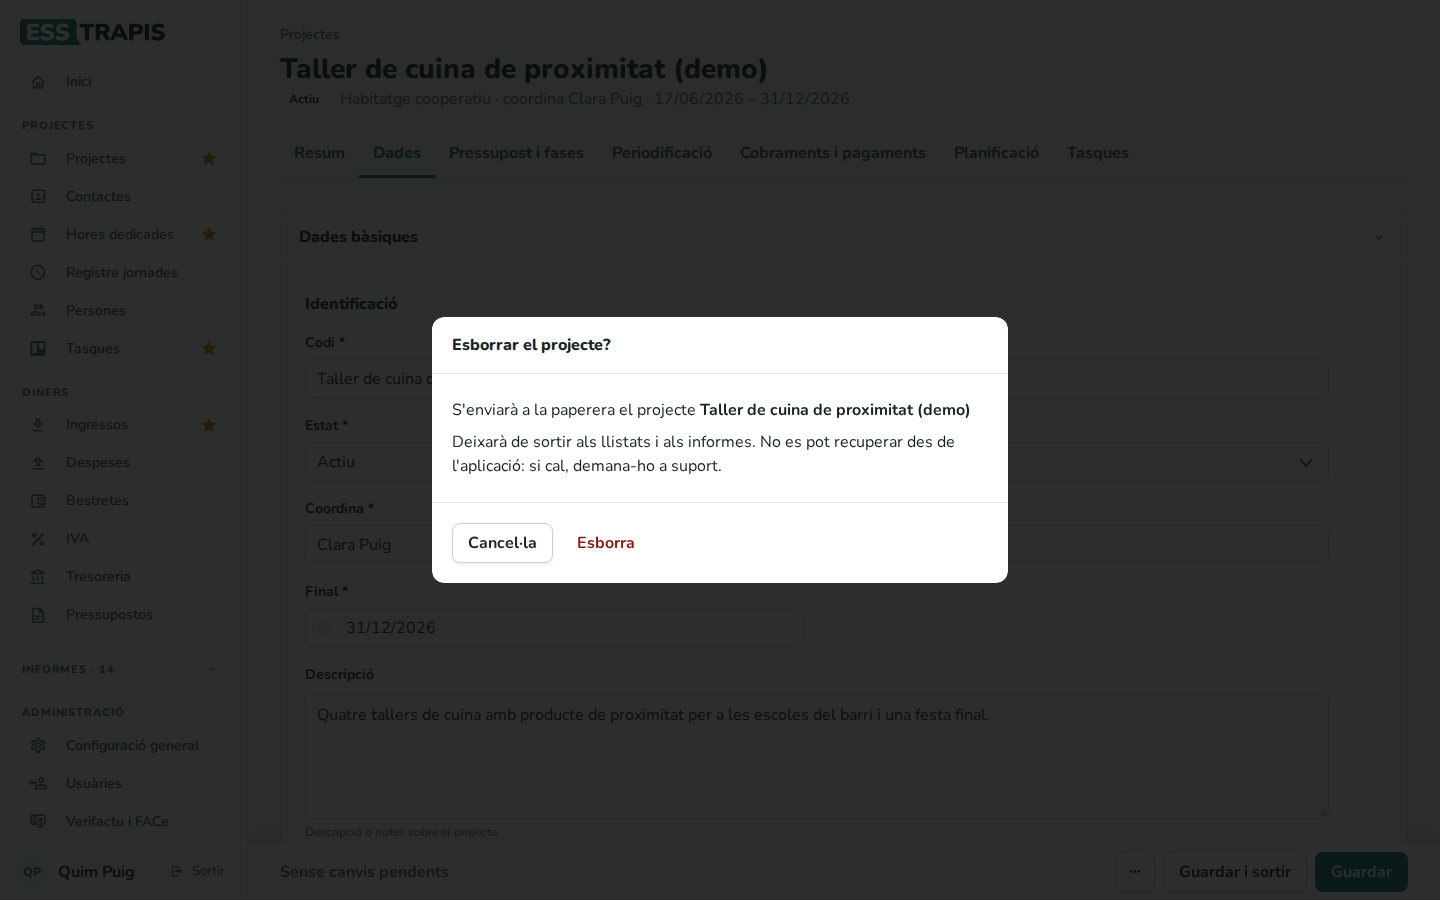
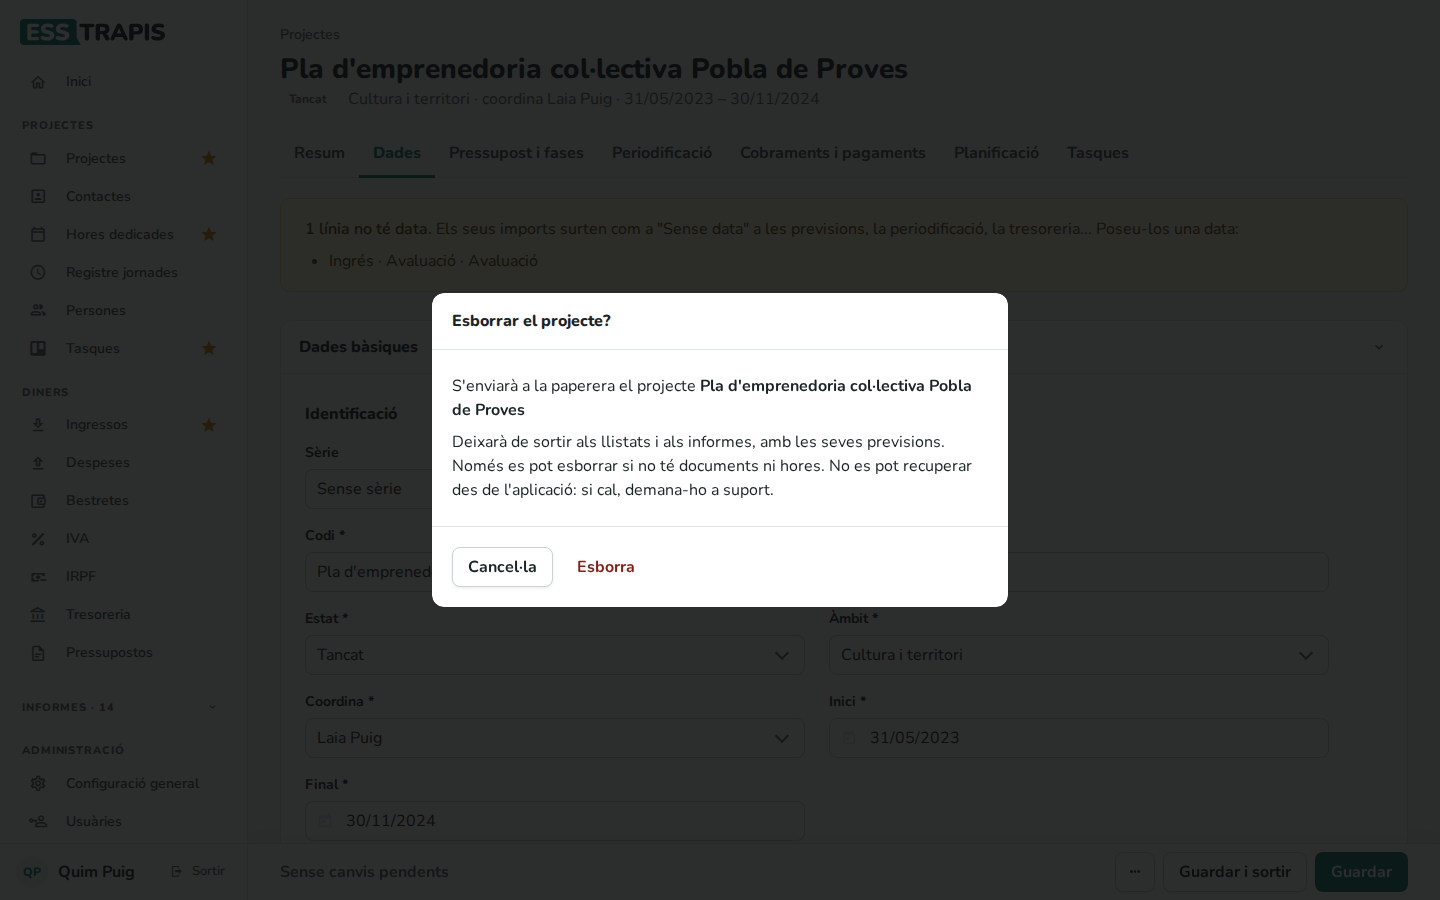
Manual: project series, the copy into a series, and which projects can be deleted
Chapter 04 explains the Sèrie field and the numbered name, the series in
«Duplicar projecte», and that a deleted project leaves every list, report
and forecast but can't be deleted with documents or hours. Chapter 35
describes «Sèries de projecte»; 03, 36 and the glossary point to them.
Screenshots from an anonymized copy (capture script 04-series-projecte).

diff --git a/manual/TOPICS.md b/manual/TOPICS.md
@@ -20,7 +20,7 @@ Dades per a les captures: **resilience** i **arrandeterra** (projectes, fases, h
 | # | Tema | Contingut | Pantalles | Permís | Estat |
 |---|------|-----------|-----------|--------|-------|
 | 03 | Llistat de projectes | Cercar, filtrar per estat/coordinació/àmbit, columnes, ordenar, totals, edició ràpida, exportar. | `/projectes` | projects | done (2026-10-17) |
-| 04 | Crear i editar un projecte | Assistent de 4 passos (dades, fases, planificació, tancar pressupost), pestanyes, barra de desar, duplicar, esborrar. Dades generals (codi, estat, àmbit, coordinació, dates, clients, tipus, probabilitat, estratègies, intercooperació, àmbit territorial), notes internes, projecte d'estructura, despesa indirecta, facturació (per projecte / per hores) i preu/hora. | `/project/:id` | projects | done (2026-10-30) |
+| 04 | Crear i editar un projecte | Assistent de 4 passos (dades, fases, planificació, tancar pressupost), sèries de projecte, pestanyes, barra de desar, duplicar (a una sèrie), esborrar (paperera; no amb documents o hores). Dades generals (codi, estat, àmbit, coordinació, dates, clients, tipus, probabilitat, estratègies, intercooperació, àmbit territorial), notes internes, projecte d'estructura, despesa indirecta, facturació (per projecte / per hores) i preu/hora. | `/project/:id` | projects | done (2026-11-06) |
 | 05 | Fases i pressupost del projecte | Fases, previsió d'ingressos i despeses, hores estimades, resultat original / previst / executat, periodificació d'ingressos i despeses, projectes facturats per hores (pressupost per hores, per facturar, preu/hora). | `/project/:id` | projects | done (2026-10-30) |
 | 06 | Projectes mare i fills | Lligar un fill a la mare, llista de projectes mare, què es veu al projecte mare (resum, fills, fases de consulta, planificació dels fills). | `/project/:id` | projects | done (2026-10-17) |
 | 07 | Subvencions i justificacions | Expedient, imports per any, import a justificar (nòmines, factures indirectes), cofinançament, entitat líder, dates; pantalles de justificació i de subvencions. | `/project/:id`, `/justifications`, `/grants` | projects | done (2026-10-18) |
@@ -77,5 +77,5 @@ Dades per a les captures: **resilience** i **arrandeterra** (projectes, fases, h
 | # | Tema | Contingut | Pantalles | Permís | Estat |
 |---|------|-----------|-----------|--------|-------|
 | 34 | Configuració general de l'entitat | Dades fiscals, logo, opcions generals, facturació per defecte dels projectes nous. | `/administracio/me` | admin | done (2026-10-30) |
-| 35 | Taules auxiliars | Anys, àmbits, estats i probabilitats de projecte, estats de tasca, estratègies, formes jurídiques, mètodes de pagament, regions, sectors, sèries, tipus (contacte, dedicació, despesa, ingrés, projecte), entitats socials, comptes bancaris. | `/administracio/*` | admin | done (2026-10-18) |
+| 35 | Taules auxiliars | Anys, àmbits, estats i probabilitats de projecte, estats de tasca, estratègies, formes jurídiques, mètodes de pagament, regions, sectors, sèries, sèries de projecte, tipus (contacte, dedicació, despesa, ingrés, projecte), entitats socials, comptes bancaris. | `/administracio/*` | admin | done (2026-11-06) |
 | 36 | Inici d'any i manteniment | Preparar un any nou (anys, festius, sèries), recalcular. | `/administracio/year`, `/recalculate` | admin | done (2026-10-18) |

diff --git a/manual/ca/35-taules-auxiliars.md b/manual/ca/35-taules-auxiliars.md
@@ -8,7 +8,7 @@ order: 35
 roles: [admin]
 routes: ["/administracio/*"]
 lang: ca
-updated: 2026-10-18
+updated: 2026-11-06
 ---
 # 35. Taules auxiliars
 
@@ -42,6 +42,7 @@ cal, es pot canviar de nom o deixar de fer-lo servir.
 | **Estats de projecte** | Actiu, Tancat, Sol·licitat… Cada estat diu si **Admet hores** (s'hi poden imputar hores) i si **Admet documents** (s'hi poden assignar factures). |
 | **Probabilitats de projecte** | Per als projectes no aprovats (s'usen a la previsió econòmica i de dedicació). |
 | **Tipus de projecte** | Classificació lliure dels projectes. |
+| **Sèries de projecte** | Les numeracions dels projectes, com *[2026-001] Nom* (vegeu més avall). Sense cap sèrie, els projectes no es numeren. |
 | **Estratègies** | Les línies estratègiques de l'entitat (informe d'estratègies). |
 | **Tipus de dedicació** | La classificació de les hores (H1 facturable, H2 gestió…). |
 | **Estats de tasca** | Les columnes del tauler de tasques; l'última és la d'acabades. Vegeu [10. Tasques](10-tasques.md). |
@@ -82,6 +83,29 @@ pes:
 Cada sèrie té un **Nom** (que fa de prefix: *2026* dona *2026-001*), els **Zeros a l'esquerra** del número, el
 **Número de factura** (l'últim número fet) i si és **Rectificativa** (les factures rectificatives han de tenir la
 seva pròpia sèrie). Normalment es fa una sèrie nova cada any (vegeu [36](36-inici-any-manteniment.md)).
+
+## Les sèries de projecte
+
+Una sèrie de projecte numera els projectes que la fan servir: el projecte es diu amb el codi de la sèrie, el
+número i el nom, per exemple *[2026-013] Taller de cuina de proximitat*. Quan n'hi ha almenys una d'activa, el
+formulari del projecte demana la **Sèrie** abans del **Codi** (vegeu
+[04. Crear i editar un projecte](04-crear-editar-projecte.md#projectes-numerats-amb-una-sèrie)).
+
+![Les sèries de projecte](img/35-taules-auxiliars/07-series-projecte.png)
+
+![Una sèrie de projecte](img/35-taules-auxiliars/08-serie-projecte-fitxa.png)
+
+| Camp | Què vol dir |
+|---|---|
+| **Codi** * | El codi de la sèrie, per exemple *2026*. Ha de ser únic. |
+| **Caràcter inicial** i **Caràcter final** | Opcionals: el que va abans i després del número. Amb *[* i *]*, el projecte es diu *[2026-001] Nom*; sense, *2026-001 Nom*. |
+| **Zeros a l'esquerra** | Les xifres del número: amb 3, *001*. |
+| **Últim número** | El número de l'últim projecte de la sèrie; el següent en tindrà un més. Es pot canviar per continuar una numeració que ja es feia servir (per exemple, posar-hi 40 perquè el projecte següent sigui el 41). |
+| **Activa** | Desmarcada, la sèrie ja no surt per triar en els projectes nous; els que ja la tenen la conserven. |
+
+El número el posa l'aplicació en desar el projecte, i no es pot escriure a mà. Si s'esborra l'últim projecte
+d'una sèrie, el seu número queda lliure i el reaprofita el projecte següent; si se n'esborra un d'enmig, la
+numeració queda amb un salt.
 
 ## Tipus de despesa i comptes bancaris
 

diff --git a/manual/ca/36-inici-any-manteniment.md b/manual/ca/36-inici-any-manteniment.md
@@ -8,7 +8,7 @@ order: 36
 roles: [admin, projects]
 routes: ["/administracio/anys*", "/recalcul"]
 lang: ca
-updated: 2026-10-18
+updated: 2026-11-06
 ---
 # 36. Inici d'any i manteniment
 
@@ -30,6 +30,8 @@ Abans de començar l'any (o el primer dia):
    ![La fitxa d'un any](img/36-inici-any-manteniment/02-any-fitxa.png)
 2. **Les sèries**: a **Taules auxiliars › Sèries**, una sèrie nova per a les factures emeses (per exemple, *2027*)
    i, si cal, per a les rectificatives i les despeses. Vegeu [35](35-taules-auxiliars.md#les-sèries).
+   Si numereu els projectes, també una **sèrie de projecte** nova a **Taules auxiliars › Sèries de projecte**
+   (i desmarcar **Activa** a la de l'any anterior). Vegeu [35](35-taules-auxiliars.md#les-sèries-de-projecte).
 3. **Els festius**: els oficials (estatals i autonòmics) són comuns a tothom. Una persona administradora els afegeix
    a **Hores dedicades › Festiu** amb el tipus **Festiu Estatal** o **Festiu Catalunya** (surten amb *TOTES*); cal
    comprovar al calendari que hi són tots. Els **festius locals** s'apunten a

diff --git a/manual/ca/00-glossari.md b/manual/ca/00-glossari.md
@@ -8,7 +8,7 @@ order: 100
 roles: []
 routes: []
 lang: ca
-updated: 2026-10-30
+updated: 2026-11-06
 ---
 # Glossari
 
@@ -105,6 +105,8 @@ local, administració) que no són de cap projecte concret.
 
 **Sèrie** — Numeració de les factures o pressupostos (per exemple, una sèrie per a cada any o per a les
 factures rectificatives).
+
+**Sèrie de projecte** — Numeració dels projectes: el projecte es diu amb el codi de la sèrie, el número i el nom, per exemple *[2026-013] Taller de cuina*. És opcional. Vegeu [35. Taules auxiliars](35-taules-auxiliars.md#les-sèries-de-projecte).
 
 **Sòcia (logística)** — Productora que encarrega a la cooperativa el transport de les seves comandes i el paga. Té una usuària amb el permís de sòcia i una fitxa de contacte a nom de la qual es factura. Vegeu [38. Guia per a sòcies](38-guia-socies-logistica.md).
 

diff --git a/manual/ca/03-llistat-projectes.md b/manual/ca/03-llistat-projectes.md
@@ -8,7 +8,7 @@ order: 3
 roles: [projects]
 routes: ["/projectes"]
 lang: ca
-updated: 2026-10-17
+updated: 2026-11-06
 ---
 # 03. Llistat de projectes
 
@@ -97,7 +97,8 @@ canvia la taula: hi surten **Nom**, **Coordina**, **Àmbit**, **Probabilitat**, 
 3. Clicar el mateix botó, que ara és un disquet, per desar-los. Surt l'avís **Guardat**.
 
 Mentre una fila està oberta, les altres no es poden editar. La paperera vermella esborra el projecte,
-després de demanar-ne confirmació. **Torna al llistat** torna a la taula normal.
+després de demanar-ne confirmació (només si no té documents ni hores; vegeu
+[04. Crear i editar un projecte](04-crear-editar-projecte.md#duplicar-i-esborrar)). **Torna al llistat** torna a la taula normal.
 
 ![Edició ràpida amb una fila oberta](img/03-llistat-projectes/06-edicio-rapida.png)
 
